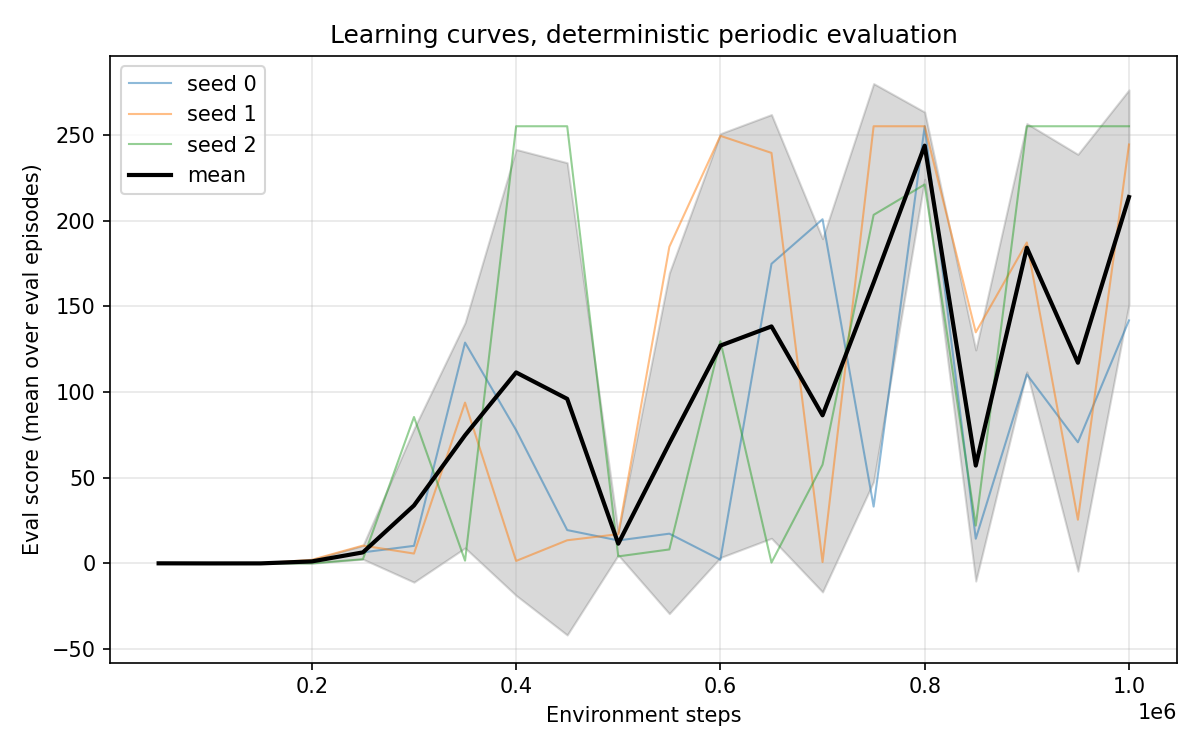
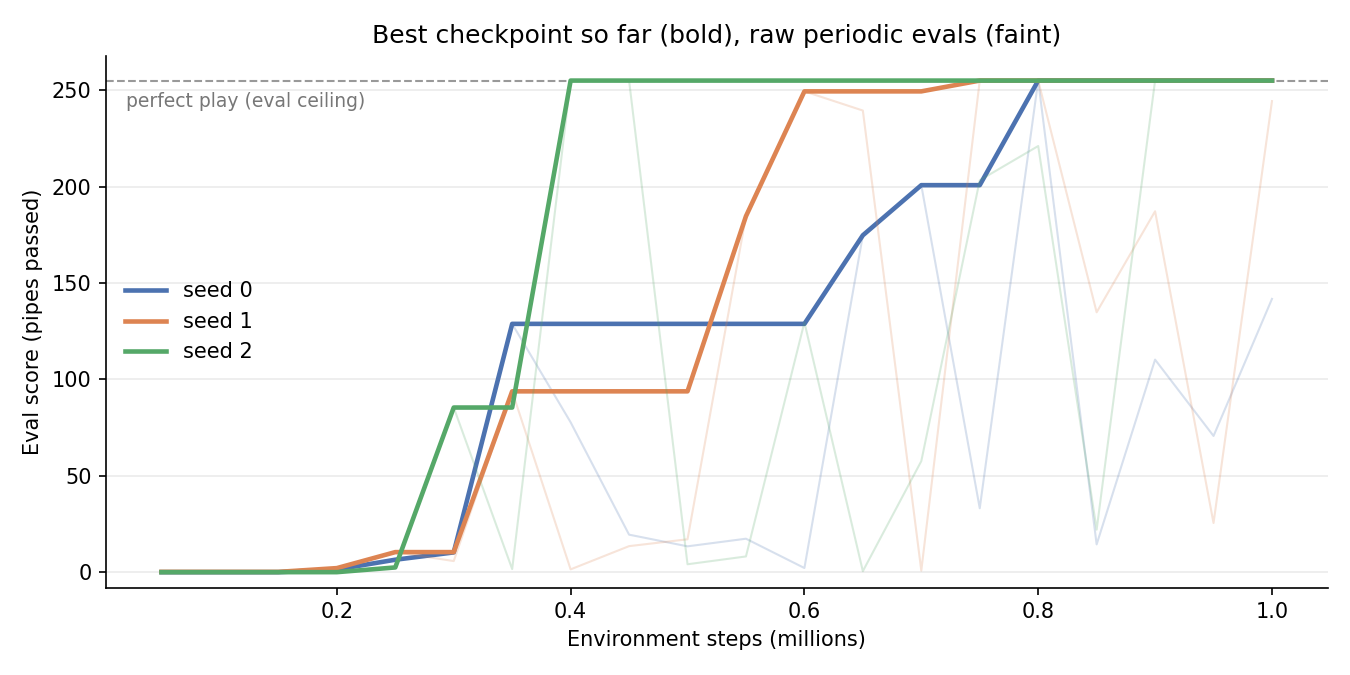
docs: simplify README and restyle learning-curve plot

diff --git a/src/reinforced_flapper/plots.py b/src/reinforced_flapper/plots.py
@@ -31,8 +31,16 @@ def _load_curve(run_dir: Path) -> tuple[np.ndarray, np.ndarray]:
     return steps, means
 
 
+SEED_COLORS = ("#4C72B0", "#DD8452", "#55A868", "#C44E52", "#8172B3")
+PERFECT_SCORE = 255
+
+
 def plot_learning_curves(run_dirs: list[Path], out_path: Path) -> Path:
-    """Plot per-seed learning curves with a mean band.
+    """Plot best-checkpoint-so-far curves per seed, raw evals faint behind.
+
+    The live DQN policy oscillates, so the curve that matters (and the one
+    the pipeline actually uses for checkpoint selection) is the running
+    best of the periodic evaluations.
 
     Args:
         run_dirs: Run directories, one per seed.
@@ -41,30 +49,41 @@ def plot_learning_curves(run_dirs: list[Path], out_path: Path) -> Path:
     Returns:
         The written plot path.
     """
-    fig, ax = plt.subplots(figsize=(8, 5))
+    fig, ax = plt.subplots(figsize=(9, 4.5))
 
-    curves = []
-    for run_dir in run_dirs:
+    for run_dir, color in zip(run_dirs, SEED_COLORS, strict=False):
         steps, means = _load_curve(run_dir)
         seed = _run_seed(run_dir)
-        ax.plot(steps, means, alpha=0.5, linewidth=1, label=f"seed {seed}")
-        curves.append((steps, means))
+        millions = steps / 1e6
+        ax.plot(millions, means, color=color, alpha=0.22, linewidth=1)
+        ax.plot(
+            millions,
+            np.maximum.accumulate(means),
+            color=color,
+            linewidth=2.2,
+            label=f"seed {seed}",
+        )
 
-    # Aggregate onto the shortest common grid (same eval cadence per seed).
-    n_common = min(len(c[0]) for c in curves)
-    if n_common > 1 and len(curves) > 1:
-        grid = curves[0][0][:n_common]
-        stacked = np.stack([c[1][:n_common] for c in curves])
-        mean = stacked.mean(axis=0)
-        std = stacked.std(axis=0, ddof=1) if len(curves) > 1 else np.zeros_like(mean)
-        ax.plot(grid, mean, color="black", linewidth=2, label="mean")
-        ax.fill_between(grid, mean - std, mean + std, color="black", alpha=0.15)
+    ax.axhline(
+        PERFECT_SCORE, color="#999999", linestyle="--", linewidth=1, zorder=0
+    )
+    ax.text(
+        0.02,
+        PERFECT_SCORE - 6,
+        "perfect play (eval ceiling)",
+        color="#777777",
+        fontsize=9,
+        va="top",
+    )
 
-    ax.set_xlabel("Environment steps")
-    ax.set_ylabel("Eval score (mean over eval episodes)")
-    ax.set_title("Learning curves, deterministic periodic evaluation")
-    ax.legend()
-    ax.grid(alpha=0.3)
+    ax.set_xlabel("Environment steps (millions)")
+    ax.set_ylabel("Eval score (pipes passed)")
+    ax.set_title("Best checkpoint so far (bold), raw periodic evals (faint)")
+    ax.set_ylim(bottom=-8)
+    ax.legend(frameon=False, loc="center left")
+    ax.grid(axis="y", alpha=0.25)
+    ax.spines["top"].set_visible(False)
+    ax.spines["right"].set_visible(False)
     out_path.parent.mkdir(parents=True, exist_ok=True)
     fig.tight_layout()
     fig.savefig(out_path, dpi=150)

diff --git a/README.md b/README.md
@@ -2,9 +2,8 @@
 
 [![CI](https://github.com/tctibbs/flappy-bird-rl/actions/workflows/ci.yml/badge.svg)](https://github.com/tctibbs/flappy-bird-rl/actions/workflows/ci.yml)
 
-A reproducible Flappy Bird reinforcement learning pipeline: Pygame game,
-Gymnasium environment, Stable-Baselines3 DQN, typed and hashed configs, a
-committed results ledger, and a fixed multi-seed evaluation protocol.
+A DQN agent that learns to play Flappy Bird perfectly, and a clean,
+reproducible pipeline around it.
 
 <p align="center">
   <img src="docs/media/demo.gif" alt="Trained agent playing Flappy Bird" width="216">
@@ -12,35 +11,16 @@ committed results ledger, and a fixed multi-seed evaluation protocol.
 
 ## Results
 
-Fixed protocol: 100 episodes with paired seeds (episode i uses seed
-10000 + i), step cap 10000, deterministic policy, best checkpoint per run.
-Score is pipes passed. 255 is the measurement ceiling: it means the agent
-never died within the cap on any episode.
-
-| Policy | Mean | Median | Min | Max | Capped episodes |
-|---|---|---|---|---|---|
-| DQN (seed 0) | 255.00 | 255 | 255 | 255 | 100/100 |
-| DQN (seed 1) | 255.00 | 255 | 255 | 255 | 100/100 |
-| DQN (seed 2) | 255.00 | 255 | 255 | 255 | 100/100 |
-| Random policy | 0.00 | 0 | 0 | 0 | 0/100 |
-
-The solved target (mean and median score >= 100 per seed, all 3 seeds,
-[ADR 0005](docs/adr/0005-evaluation-protocol-and-solved-definition.md))
-is met at the ceiling on every seed. Training takes about
-5 minutes per seed on a laptop CPU (1M steps, headless). Stochastic
-evaluation (epsilon-greedy at the saved 0.01 exploration rate) scores 13
-to 18 and is reported separately in the ledger; a 1 percent random flap
-rate is lethal in this game regardless of policy quality.
+All 3 training seeds reach perfect play: the best checkpoint never dies
+in evaluation, scoring 255 pipes on every one of 100 fixed episodes (the
+protocol's ceiling). A random policy scores 0 on the same episodes.
 
 ![Learning curves](plots/learning_curves.png)
 
-The live DQN policy keeps oscillating after first reaching perfect play,
-which is why checkpoints are selected by periodic evaluation score rather
-than taking the final network. The decisive hyperparameter was reward
-scale: the original +1 alive / -100 death reward never exceeded mean 1.77,
-while +0.1 / -1.0 with the same algorithm and budget reached the ceiling
-([journal 003](journal/003-reward-scale-was-the-whole-problem.md),
-[ADR 0007](docs/adr/0007-bounded-reward-scale.md)).
+Training takes about 5 minutes per seed on a laptop CPU, fully headless.
+The one hyperparameter that mattered was reward scale: +1 per frame and
+-100 on death never worked, +0.1 and -1.0 solved the game
+([journal](journal/003-reward-scale-was-the-whole-problem.md)).
 
 ## Quick start
 
@@ -49,65 +29,27 @@ Requires [uv](https://docs.astral.sh/uv/).
 ```bash
 uv sync --all-extras
 
-# Play the game yourself
-uv run flapper play
-
-# Train (headless, no display needed), then watch the result
-uv run flapper train --config configs/final.yaml --seed 0
-uv run flapper watch --model runs/<run_id>/best_model
-
-# Evaluate under the fixed protocol (appends a ledger row)
-uv run flapper evaluate --model runs/<run_id>/best_model
-uv run flapper evaluate --policy random
-
-# Record an mp4 (works headless) and plot curves
-uv run flapper video --model runs/<run_id>/best_model
-uv run flapper plot --runs runs/<run_id> --target 100
+uv run flapper play                                       # play it yourself
+uv run flapper train --config configs/final.yaml          # train an agent
+uv run flapper watch --model runs/<run_id>/best_model     # watch it play
+uv run flapper evaluate --model runs/<run_id>/best_model  # 100-episode eval
 ```
 
-`make check` runs the full quality gate: ruff check, ruff format --check,
-ty check, pytest.
+`make check` runs lint, format, types, and tests.
 
-## How it fits together
+## How it works
 
-```
-src/reinforced_flapper/
-  game/        Pygame game: entities, pixel-perfect collision, assets.
-               Fully display-free when not rendering (docs/adr/0004).
-  env.py       Gymnasium env. 4-feature observation, config-driven
-               rewards, step-cap truncation, per-env seeded RNG.
-  config.py    Pydantic v2 schema. Hashed (seed and name excluded) so
-               every result traces to an exact configuration.
-  ledger.py    Append-only results/ledger.jsonl, the source of truth.
-  evaluate.py  Fixed paired-seed protocol; deterministic and stochastic
-               evaluations kept separate.
-  train.py     Training loop. Each run writes runs/<run_id>/ with config,
-               structured log, monitor.csv, learning curve, best and
-               final models, and appends a ledger row.
-  video.py     Offscreen mp4 recording.
-  plots.py     Learning curves and final-score plots.
-  cli.py       The flapper command.
-```
+- The bird sees 4 numbers (height, velocity, distance to the next pipe,
+  distance to the gap center) and decides each frame: flap or not.
+- Stable-Baselines3 DQN, trained headless, evaluated on 100 fixed-seed
+  episodes so every policy faces the same pipes.
+- Every run records its typed, hashed config and results to
+  results/ledger.jsonl, so each number traces to an exact configuration
+  and git commit.
 
-Decisions are recorded in docs/adr (algorithm, observation, rewards,
-headless design, evaluation protocol, ledger). Experiment lessons live in
-journal/, one per file.
-
-## Reproducing
-
-Every ledger row embeds its full config. To reproduce a row: check out
-its git_sha, write its config to a YAML file (or use the matching file in
-configs/), and run `uv run flapper train --config <file> --seed <seed>`.
-Training is deterministic per seed up to PyTorch nondeterminism on
-differing hardware; the evaluation protocol itself is exactly
-reproducible for a given model.
-
-The environment observation is 4 normalized features: bird height, bird
-vertical velocity, horizontal distance to the next pipe, and vertical
-distance to the gap center. Action space is flap / no flap at 30 frames
-per second of game time.
+More detail: [method and results](docs/summary.md),
+[decision records](docs/adr), [experiment journal](journal).
 
 ## License
 
-MIT, see LICENSE. Game assets and base game derive from
-[FlapPyBird](https://github.com/sourabhv/FlapPyBird).
+MIT. Game derived from [FlapPyBird](https://github.com/sourabhv/FlapPyBird).

diff --git a/docs/summary.md b/docs/summary.md
@@ -74,6 +74,15 @@ single process, laptop CPU, headless.
    not a convenience. The final network at 1M steps is often mediocre;
    the best checkpoint is consistently perfect (journal/004).
 
+## Reproducing
+
+Every ledger row embeds its full config. To reproduce a row: check out
+its git_sha, write its config to a YAML file (or use the matching file in
+configs/), and run `uv run flapper train --config <file> --seed <seed>`.
+Training is deterministic per seed up to PyTorch nondeterminism on
+differing hardware; the evaluation protocol itself is exactly
+reproducible for a given model.
+
 ## Artifacts
 
 - results/ledger.jsonl: every training and evaluation row, with git SHA,